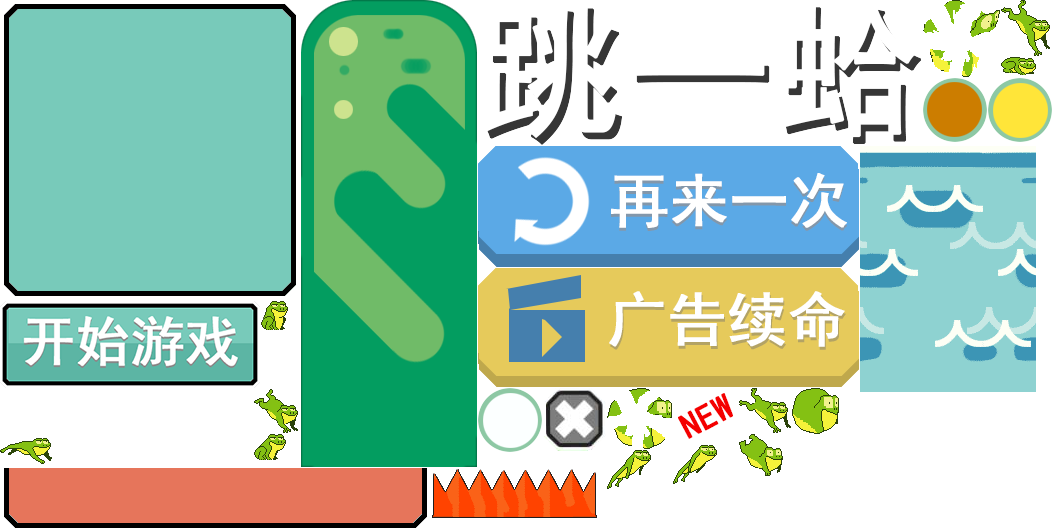
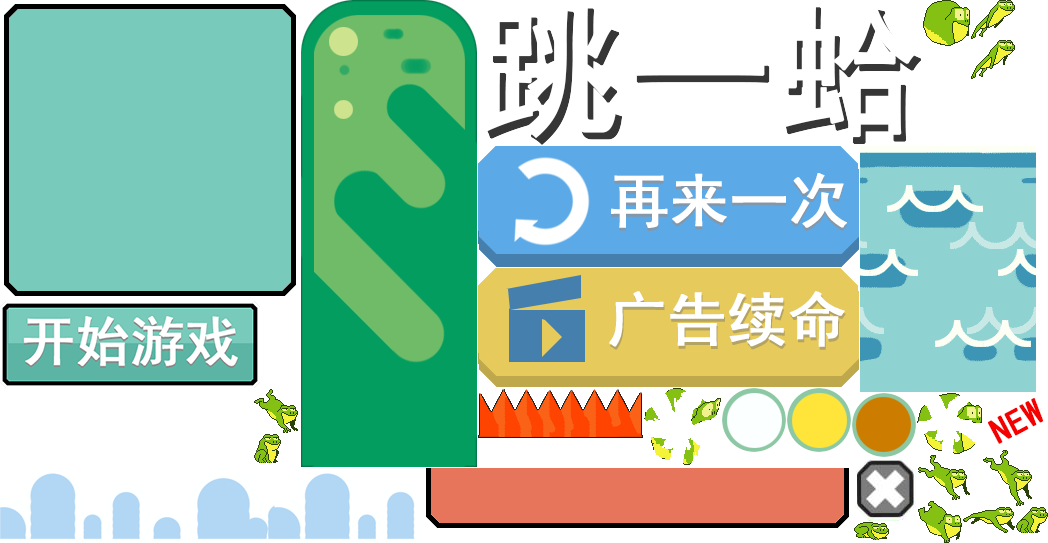
stone, water action

diff --git a/ide/bin/js/game/WaterView.js b/ide/bin/js/game/WaterView.js
@@ -12,20 +12,21 @@ var game;
 (function (game) {
     var Sprite = Laya.Sprite;
     var Image = Laya.Image;
-    var WaterView = /** @class */ (function (_super) {
-        __extends(WaterView, _super);
-        function WaterView() {
+    var ScrollView = /** @class */ (function (_super) {
+        __extends(ScrollView, _super);
+        function ScrollView(src) {
             var _this = _super.call(this) || this;
             _this.waters = [];
             _this.picWidth = 0;
             _this.picHeight = 0;
             _this.lastPic = null;
+            _this.source = src;
             _this.init();
             return _this;
         }
-        WaterView.prototype.init = function () {
+        ScrollView.prototype.init = function () {
             var water1 = new Image();
-            water1.skin = "frog/shui.png";
+            water1.skin = this.source;
             water1.x = 0;
             this.addChild(water1);
             this.waters.push(water1);
@@ -33,14 +34,14 @@ var game;
             this.picHeight = water1.height;
             var num = Math.floor(Laya.stage.width / water1.width);
             for (var i = 0; i < num + 1; i++) {
-                var water = new Image("frog/shui.png");
+                var water = new Image(this.source);
                 water.x = this.picWidth * (i + 1);
                 this.addChild(water);
                 this.waters.push(water);
             }
             this.lastPic = this.waters[this.waters.length - 1];
         };
-        WaterView.prototype.run = function (rate) {
+        ScrollView.prototype.run = function (rate) {
             for (var i = 0; i < this.waters.length; i++) {
                 if (this.waters[i].x + this.picWidth < -1) {
                     this.waters[i].x = this.lastPic.x + this.picWidth;
@@ -49,8 +50,8 @@ var game;
                 this.waters[i].x -= rate;
             }
         };
-        return WaterView;
+        return ScrollView;
     }(Sprite));
-    game.WaterView = WaterView;
+    game.ScrollView = ScrollView;
 })(game || (game = {}));
 //# sourceMappingURL=WaterView.js.map

diff --git a/ide/src/game/GameMainView.ts b/ide/src/game/GameMainView.ts
@@ -40,7 +40,9 @@ namespace game {
         //云层
         cloudsView: RepeatImageView;
         //水
-        waterView: WaterView;
+        waterView: ScrollView;
+        //石头
+        stoneView: ScrollView;
         label_jump: ui.comp.LabelScaleAniUI;
 
         play_self:boolean = false;
@@ -281,13 +283,17 @@ namespace game {
             this.cloudsView = new RepeatImageView("frog/yun.png");
             this.sp_map.addChild(this.cloudsView);
             this.cloudsView.y = 0;
+            //石头
+            this.stoneView = new ScrollView("frog/wuqi.png");
+            this.addChild(this.stoneView);
             //水
-            this.waterView = new WaterView;
+            this.waterView = new ScrollView("frog/shui.png");
             this.waterView.y = Laya.stage.height - this.waterView.picHeight;
             this.waterView.zOrder = this.sp_map.zOrder + 1;
             this.box_tips.zOrder = this.waterView.zOrder + 1;
             this.addChild(this.waterView);
-            this.buildingView.y = this.waterView.y - 209;
+            this.buildingView.y = this.waterView.y - 200;
+            this.stoneView.y = this.waterView.y + 8 - 62;
 
             this.sp_tips.graphics.drawRect(0, 0, this.width, this.height, "#000000");
             this.sp_white.graphics.drawRect(0, 0, this.width, this.height, "#ffffff");
@@ -391,6 +397,7 @@ namespace game {
         onLoop() {
             //布景移动
             this.waterView.run(this.gameSpeed + 0.1);
+            this.stoneView.run(this.gameSpeed);
             this.buildingView.run(this.gameSpeed - 1);
             this.cloudsView.run(this.gameSpeed - 2);
             this.bgView.run(this.gameSpeed - 1.5);

diff --git a/ide/bin/js/game/GameMainView.js b/ide/bin/js/game/GameMainView.js
@@ -257,13 +257,17 @@ var game;
             this.cloudsView = new game.RepeatImageView("frog/yun.png");
             this.sp_map.addChild(this.cloudsView);
             this.cloudsView.y = 0;
+            //石头
+            this.stoneView = new game.ScrollView("frog/wuqi.png");
+            this.addChild(this.stoneView);
             //水
-            this.waterView = new game.WaterView;
+            this.waterView = new game.ScrollView("frog/shui.png");
             this.waterView.y = Laya.stage.height - this.waterView.picHeight;
             this.waterView.zOrder = this.sp_map.zOrder + 1;
             this.box_tips.zOrder = this.waterView.zOrder + 1;
             this.addChild(this.waterView);
-            this.buildingView.y = this.waterView.y - 209;
+            this.buildingView.y = this.waterView.y - 200;
+            this.stoneView.y = this.waterView.y + 8 - 62;
             this.sp_tips.graphics.drawRect(0, 0, this.width, this.height, "#000000");
             this.sp_white.graphics.drawRect(0, 0, this.width, this.height, "#ffffff");
             this.box_tips.on(Laya.Event.CLICK, this, function () {
@@ -361,6 +365,7 @@ var game;
         GameMainView.prototype.onLoop = function () {
             //布景移动
             this.waterView.run(this.gameSpeed + 0.1);
+            this.stoneView.run(this.gameSpeed);
             this.buildingView.run(this.gameSpeed - 1);
             this.cloudsView.run(this.gameSpeed - 2);
             this.bgView.run(this.gameSpeed - 1.5);

diff --git a/ide/src/game/WaterView.ts b/ide/src/game/WaterView.ts
@@ -2,21 +2,23 @@ namespace game {
     import Sprite = Laya.Sprite;
     import Image = Laya.Image;
 
-    export class WaterView extends Sprite {
+    export class ScrollView extends Sprite {
 
         waters = [];
         picWidth = 0;
         picHeight = 0;
         lastPic = null;
+        source;
 
-        constructor() {
+        constructor(src) {
             super();
+            this.source = src;
             this.init();
         }
 
         init() {
             let water1 = new Image();
-            water1.skin = "frog/shui.png";
+            water1.skin = this.source;
             water1.x = 0;
             this.addChild(water1);
             this.waters.push(water1);
@@ -26,7 +28,7 @@ namespace game {
             
             let num = Math.floor(Laya.stage.width/water1.width);
             for(let i = 0; i < num + 1; i++) {
-                let water = new Image("frog/shui.png");
+                let water = new Image(this.source);
                 water.x = this.picWidth * (i + 1);
                 this.addChild(water);
                 this.waters.push(water);
